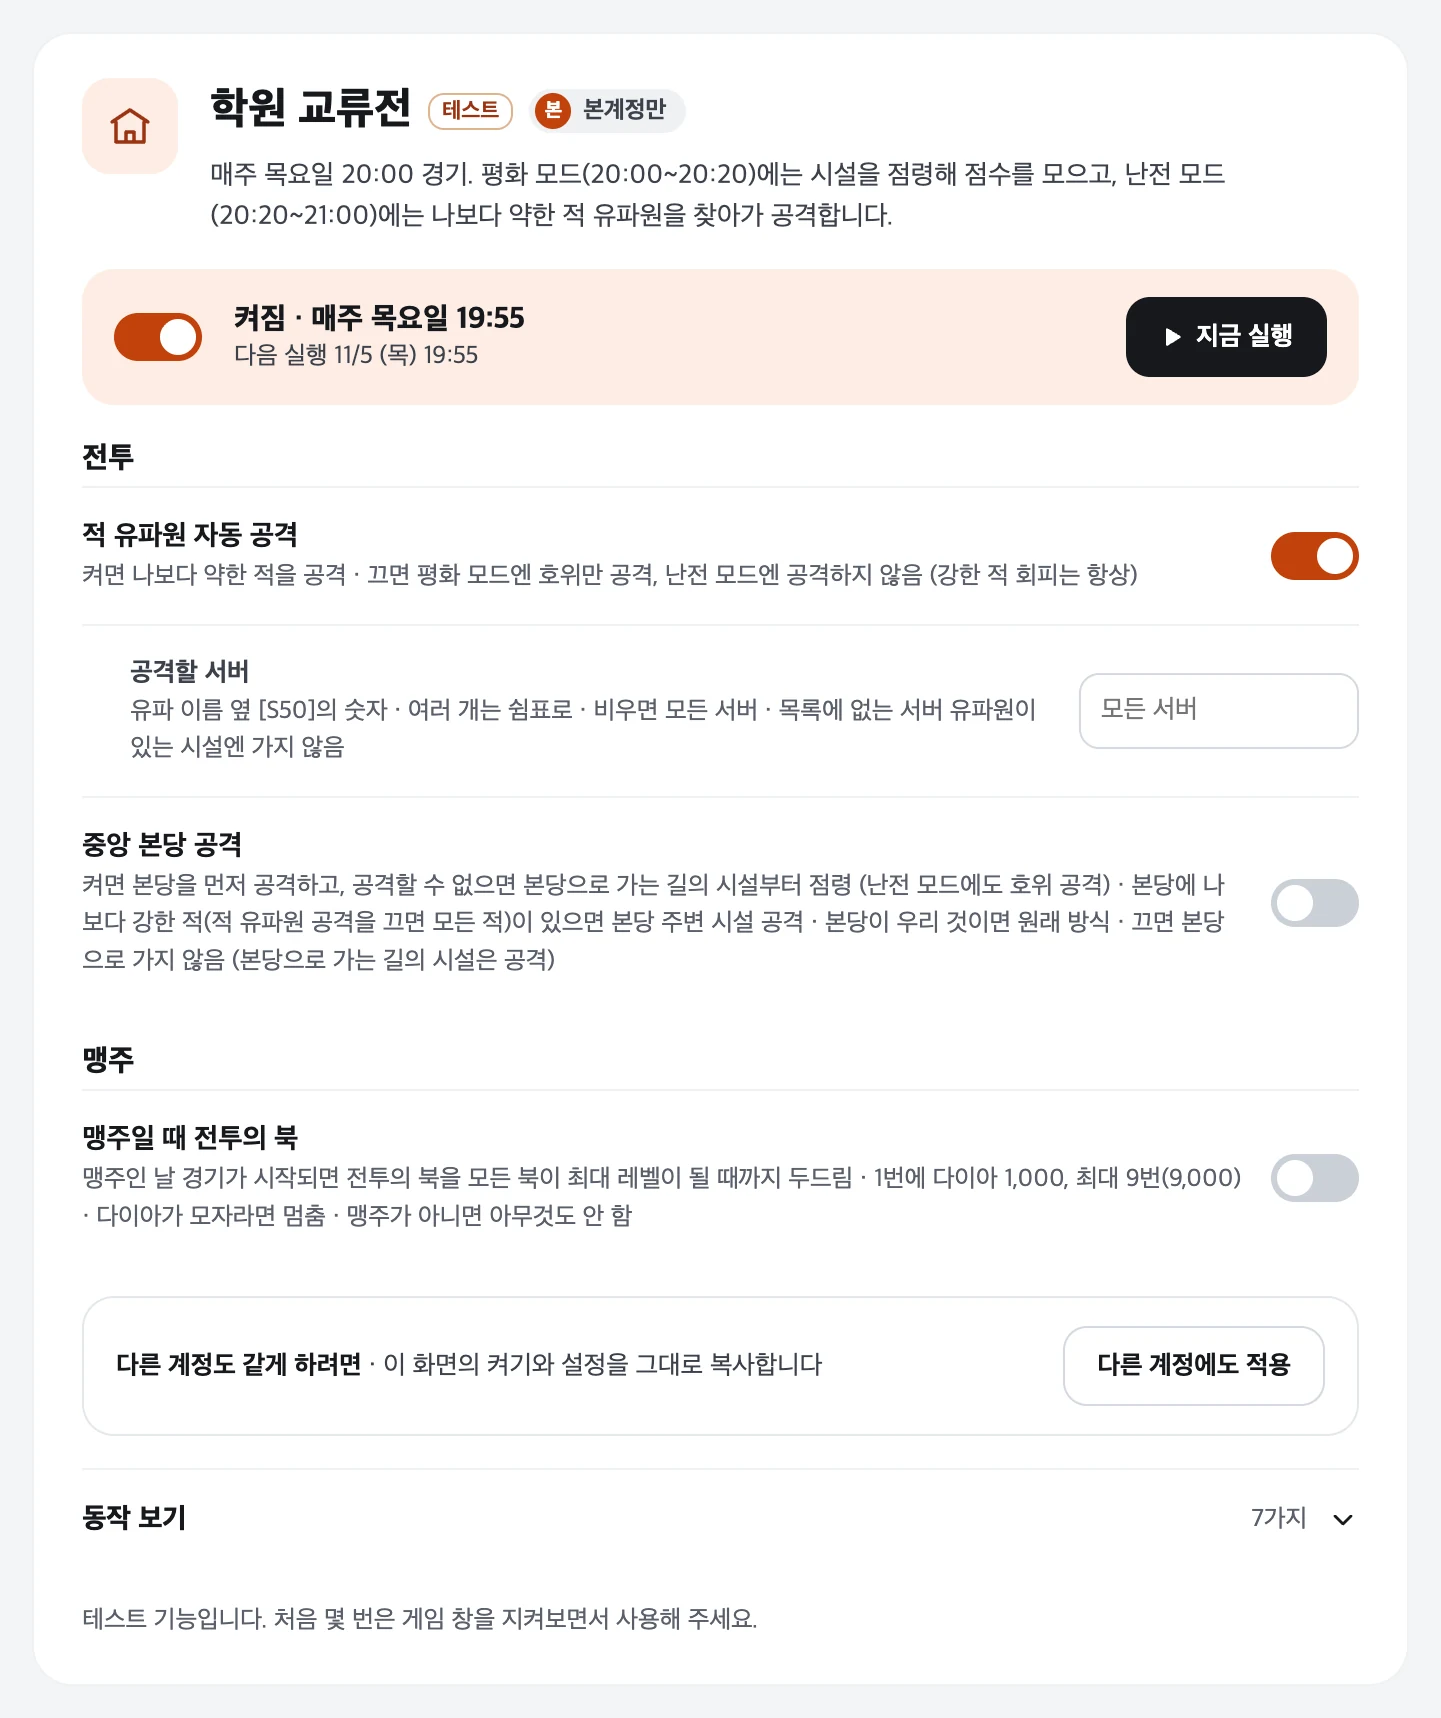
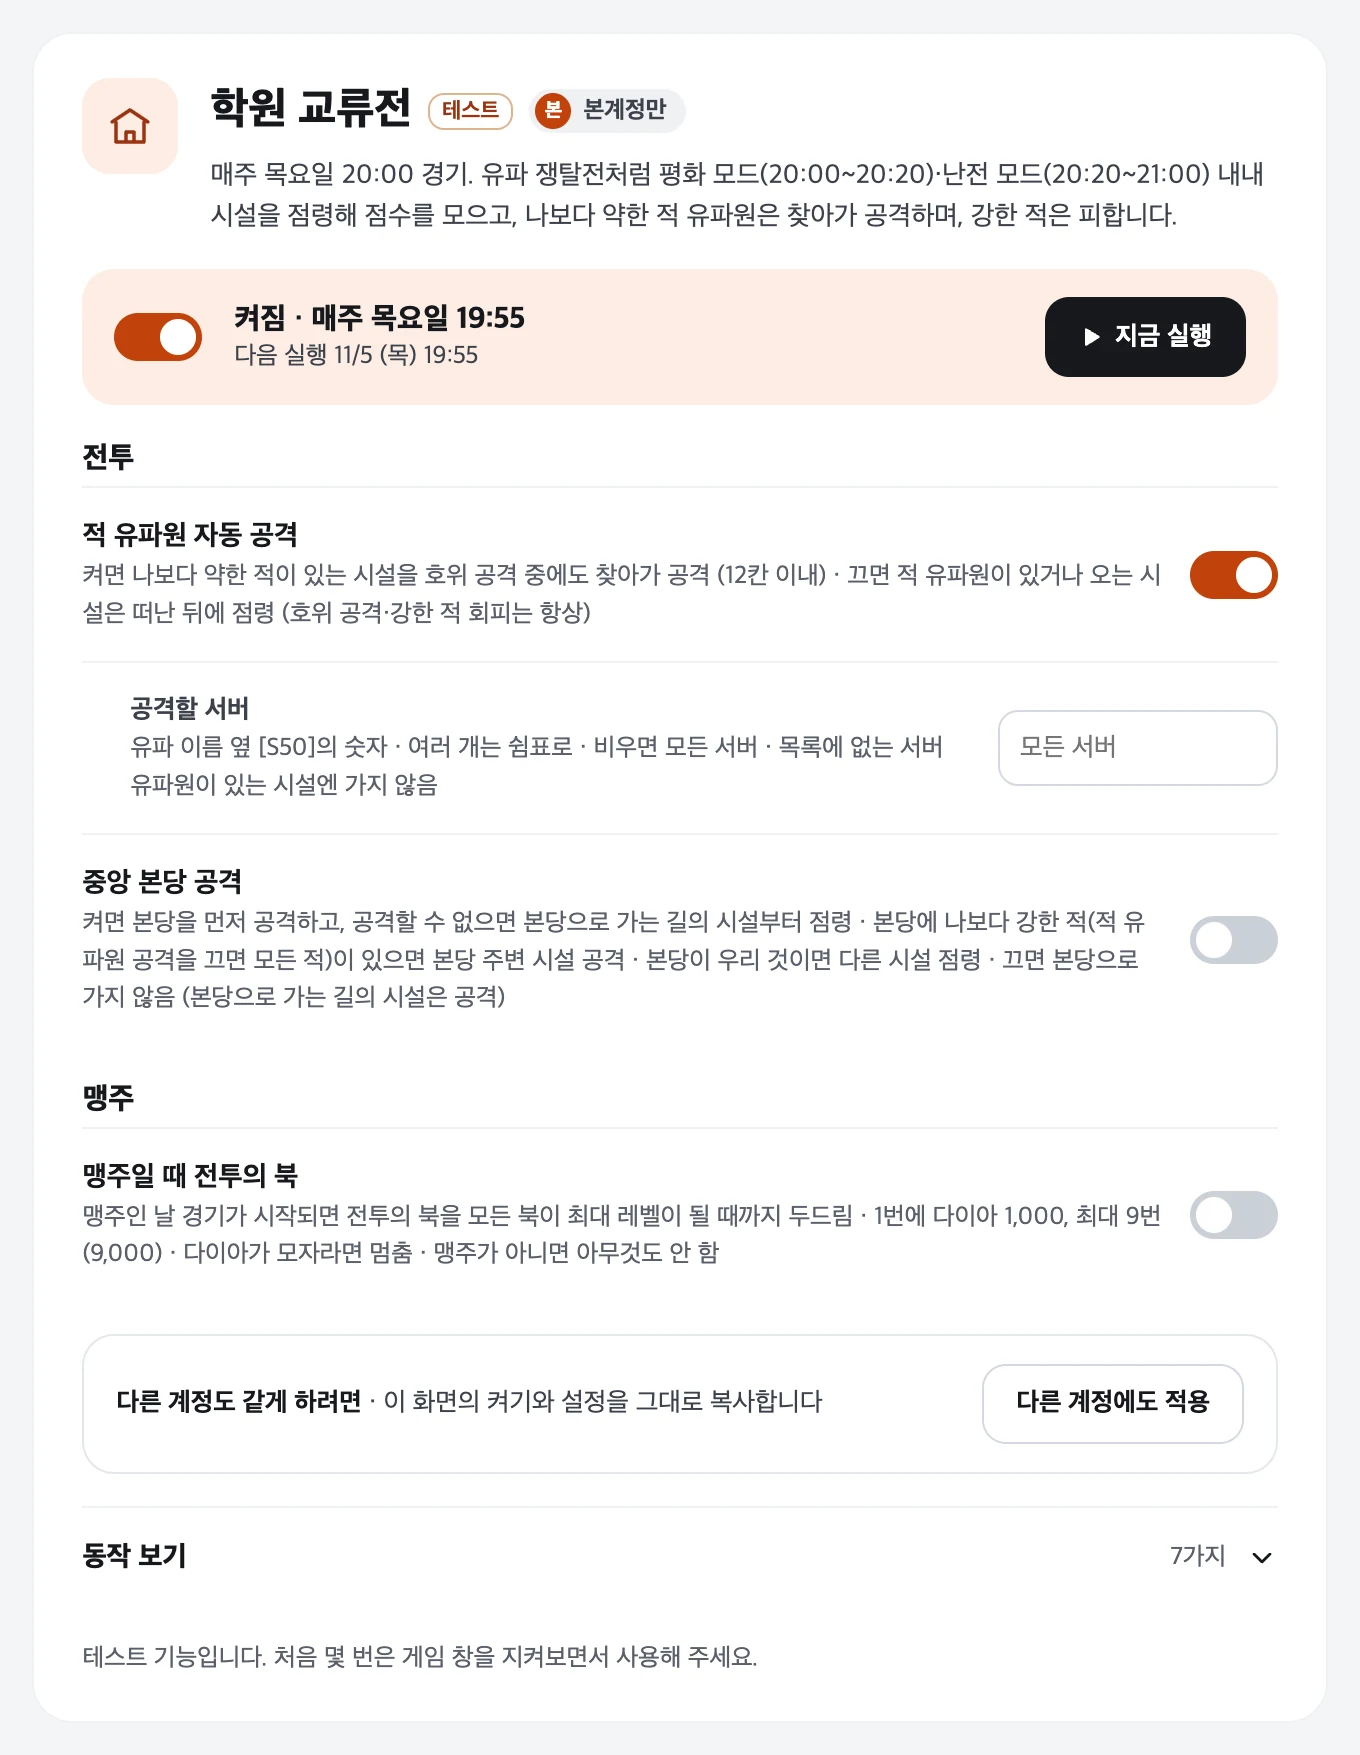
v1.5.129 홈페이지: 학원 교류전을 유파 쟁탈전과 같은 방식으로(평화·난전 모드 내내 시설 점령, 약한 적 찾아가기, 적 공격을 끄면 적이 떠난 뒤 점령), 교류전·쟁패전 스스로 전투 불능 뒤 부활 못 하던 문제 고침, 실전 확인 전 안내, 교류전 설정 화면 이미지
Claude-Session: https://claude.ai/code/session_01KmZacAeoiGxHpjKwWGpkTY

diff --git a/docs/features.html b/docs/features.html
@@ -332,12 +332,15 @@
           <div class="feat-h"><i data-i="school"></i><div><h3>학원 교류전</h3><div class="when">매주 목요일 19:55</div></div></div>
           <div class="tags"><span class="chip warn">테스트</span><span class="chip tint">프리미엄</span></div>
           <ul>
-            <li><b>평화 모드(20:00~20:20)</b>: 우리 영지에 붙은 시설의 호위를 공격해 점령합니다. 점수가 큰 시설과 가까운 시설부터.</li>
-            <li><b>난전 모드(20:20~21:00)</b>: 나보다 약한 적 유파원을 찾아가 공격하고, 강한 적이 오면 안전한 시설로 피합니다.</li>
+            <li><b>유파 쟁탈전과 같은 방식</b>(호위 자동 공격·약한 적 공격·찾아가기·강한 적 회피·부활)으로 <b>평화 모드(20:00~20:20)·난전 모드(20:20~21:00) 내내 시설을 점령</b>합니다(v1.5.129부터). 우리 영지에 붙은 시설의 호위를 공격해 점령하고, 점수가 큰 시설(어령단 7·무도장 3·교학관 1 등)과 가까운 시설부터 갑니다. 난전 모드엔 적 본부도 점령 대상입니다. 교류전은 시설 점수가 유파 점수라 목표 Pt·본진 복귀 없이 경기가 끝날 때까지 계속합니다. v1.5.128까지는 난전 모드에 적 유파원만 공격해서, 적 유파원 자동 공격을 껐거나 약한 적이 없으면 난전 모드 내내 그 자리에 멈춰 있었습니다.</li>
+            <li><b>나보다 약한 적 유파원</b>: 지금 시설에 있으면 먼저 공격하고, 갈 수 있는 12칸 안 시설에 와 있으면 호위 공격 중이라도 찾아갑니다. 나보다 강한 적이 있거나 오면 안전한 시설(우리·동맹 시설 먼저)로 피합니다.</li>
+            <li><b>적 유파원 자동 공격</b>(기본 켬): 끄면 호위만 공격하고, 적 유파원이 있거나 오는 시설은 적이 떠난 뒤에 점령합니다. 그동안 다른 시설 확장은 계속하고, 강한 적 회피는 그대로입니다. <b>공격할 서버</b>를 정하면 다른 서버 유파원은 공격하지 않을 때처럼 피합니다.</li>
+            <li><b>부활</b>: 스스로 전투 불능이 된 뒤(지휘 부채가 조금 남았을 때) 부활하지 못하고 멈추던 문제를 고쳤습니다(v1.5.129). 부활 시각이 지나도 부활하지 않으면 요란 비서가 직접 부활합니다.</li>
             <li><b>중앙 본당 공격</b>(기본 끔): 켜면 두 모드 모두 본당 → 본당으로 가는 길의 시설 순서로 먼저 공격합니다. 본당이 우리 것이거나 갈 수 없으면 위 방식대로. 끄면 <b>본당으로는 가지 않습니다</b>(v1.5.116부터).</li>
             <li><b>맹주일 때 전투의 북</b>(기본 끔): 맹주인 날 경기가 시작되면 전투의 북을 모두 최대 레벨까지 두드립니다 (1번에 다이아 1,000, 최대 9번).</li>
             <li>유파 신청은 회장·부회장 등이 게임에서 하고, 신청·선정되지 않은 주는 건너뜁니다.</li>
           </ul>
+          <p class="muted small">경기 내내 시설을 점령하는 방식과 부활 고침(v1.5.129, 학원 쟁패전 포함)은 아직 실전에서 확인하기 전이니 처음 몇 번은 게임 창을 지켜봐 주세요.</p>
         </div>
         <figure class="shot panel"><img loading="lazy" src="img/panel-fz.webp" alt="학원 교류전 설정 화면"></figure>
       </article>
@@ -359,7 +362,7 @@
           <div class="feat-h"><i data-i="castle"></i><div><h3>학원 쟁패전</h3><div class="when">매주 토요일 19:55 (오전 경기면 08:55)</div></div></div>
           <div class="tags"><span class="chip warn">테스트</span><span class="chip tint">프리미엄</span></div>
           <ul>
-            <li>유파 쟁탈전과 같은 방식으로 호위 자동 공격·약한 적 공격·강한 적 회피·부활을 합니다.</li>
+            <li>유파 쟁탈전과 같은 방식으로 호위 자동 공격·약한 적 공격·강한 적 회피·부활을 합니다. 스스로 전투 불능이 된 뒤 부활하지 못하고 멈추던 문제를 고쳐, 부활 시각이 지나도 부활하지 않으면 요란 비서가 직접 부활합니다(v1.5.129부터, 처음 몇 번은 게임 창을 지켜봐 주세요).</li>
             <li>고른 <b>직업</b>을 경기 시작 때 선택하고, 직업 스킬은 쿨타임마다 씁니다.</li>
             <li><b>중앙 본당 공격</b>(기본 끔): 켜면 본당 → 본당으로 가는 길의 시설 순서로 공격합니다. 본당이 우리 것이면 다른 시설. 끄면 <b>본당으로는 가지 않고</b>, 본당으로 가는 길의 시설은 공격합니다(v1.5.116부터).</li>
             <li>유파가 그 주 경기에 신청·선출되지 않았으면 건너뜁니다.</li>
